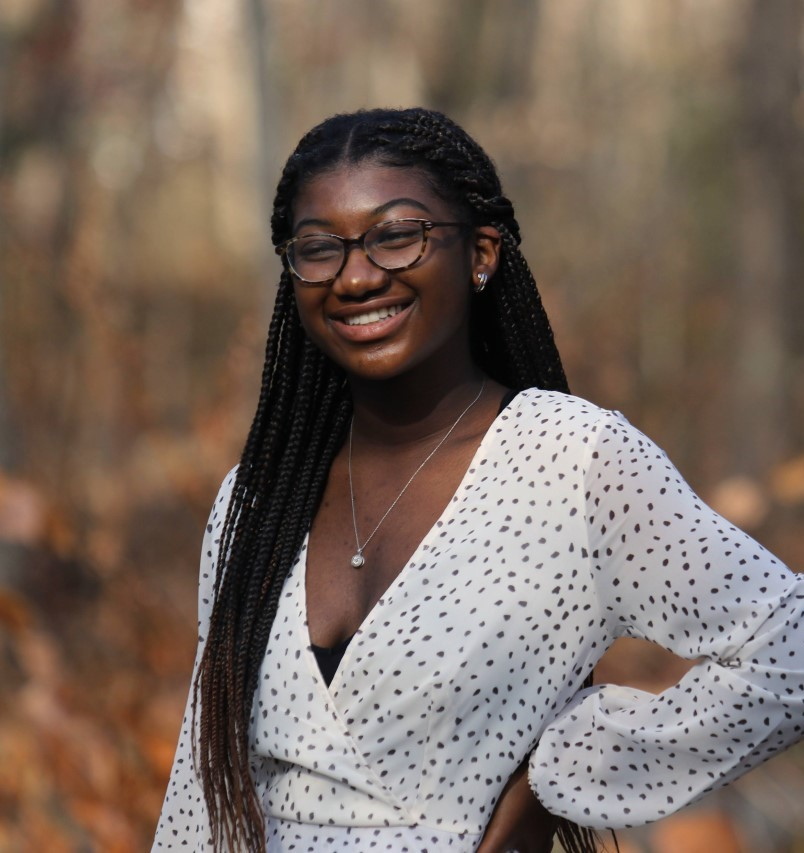
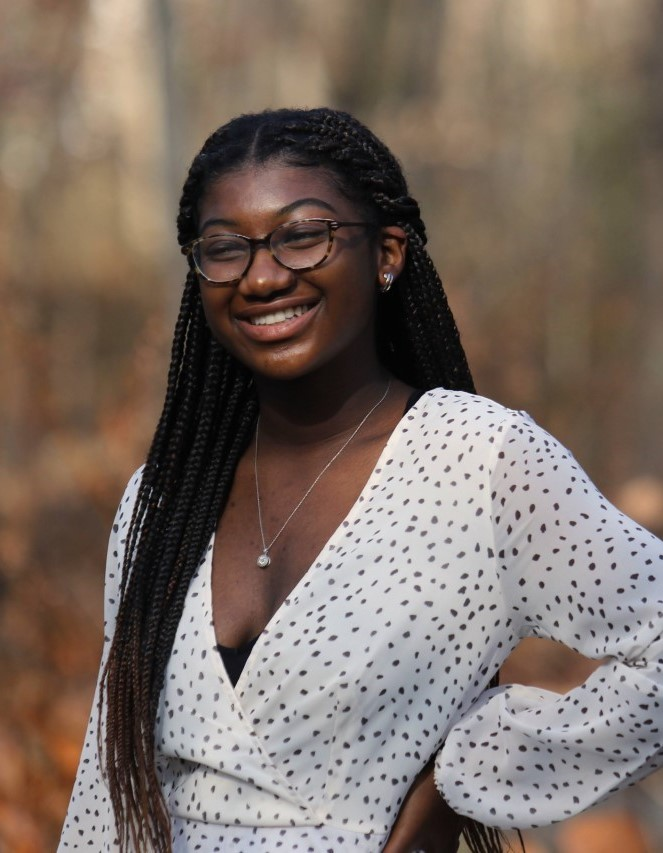
nahla2

diff --git a/our-team/index.html b/our-team/index.html
@@ -126,8 +126,8 @@
 
         <!-- Member Box Start -->
         <div class="member-box col-xs-6 col-sm-4 col-md-3">
-          <div class="overflow-hidden position-relative width-100">
-            <div class="position-relative">
+          <div class="overflow-hidden position-relative width-100" style="align-content: center;">
+            <div class="">
               <div class="img-wrapper">
                 <img src="../res/images/team/Maxine.JPG" alt="Maxine"/>
               </div>
